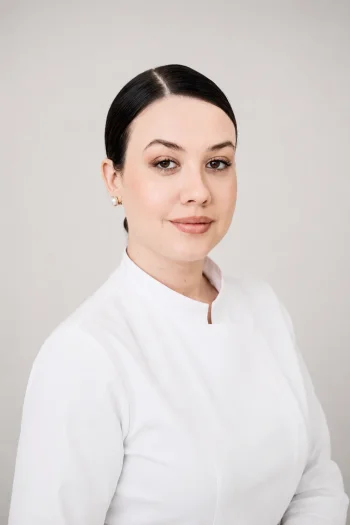
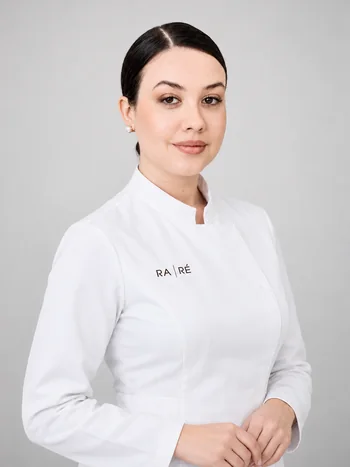
Replace Alisa's and Mariya's portraits with the client's new photos

diff --git a/index.html b/index.html
@@ -438,7 +438,7 @@
     <div class="mh-carousel">
       <div class="mh-carousel-track" id="mh-spec-track">
         <a href="specialists/mariya-viktorovna.html" class="mh-spec-card">
-          <img src="assets/photos/spec-mariya.webp?v=9" alt="Ермакова Мария Викторовна" loading="lazy" srcset="assets/photos/spec-mariya-350.webp?v=9 350w, assets/photos/spec-mariya-500.webp?v=9 500w, assets/photos/spec-mariya-700.webp?v=9 700w, assets/photos/spec-mariya.webp?v=9 1024w" sizes="(max-width: 767px) 350px, (max-width: 1024px) 460px, 468px"/>
+          <img src="assets/photos/spec-mariya.webp?v=10" alt="Ермакова Мария Викторовна" loading="lazy" srcset="assets/photos/spec-mariya-350.webp?v=10 350w, assets/photos/spec-mariya-500.webp?v=10 500w, assets/photos/spec-mariya-700.webp?v=10 700w, assets/photos/spec-mariya.webp?v=10 1024w" sizes="(max-width: 767px) 350px, (max-width: 1024px) 460px, 468px"/>
           <p class="mh-spec-card__name">Ермакова Мария Викторовна</p>
           <p class="mh-spec-card__role">Главный врач, врач-косметолог</p>
         </a>
@@ -463,7 +463,7 @@
           <p class="mh-spec-card__role">Косметолог-эстетист</p>
         </a>
         <a href="specialists/alisa-alekseevna.html" class="mh-spec-card">
-          <img src="assets/photos/spec-alisa.webp?v=9" alt="Рейбер-Австрийская Алиса Алексеевна" loading="lazy" srcset="assets/photos/spec-alisa-350.webp?v=9 350w, assets/photos/spec-alisa-500.webp?v=9 500w, assets/photos/spec-alisa-700.webp?v=9 700w, assets/photos/spec-alisa.webp?v=9 1024w" sizes="(max-width: 767px) 350px, (max-width: 1024px) 460px, 468px"/>
+          <img src="assets/photos/spec-alisa.webp?v=10" alt="Рейбер-Австрийская Алиса Алексеевна" loading="lazy" srcset="assets/photos/spec-alisa-350.webp?v=10 350w, assets/photos/spec-alisa-500.webp?v=10 500w, assets/photos/spec-alisa-700.webp?v=10 700w, assets/photos/spec-alisa.webp?v=10 1086w" sizes="(max-width: 767px) 350px, (max-width: 1024px) 460px, 468px"/>
           <p class="mh-spec-card__name">Рейбер-Австрийская Алиса Алексеевна</p>
           <p class="mh-spec-card__role">Врач-дерматовенеролог, косметолог, трихолог</p>
         </a>
@@ -1085,7 +1085,7 @@
   </div>
   <div class="spec-track" id="spec-track">
     <a href="specialists/mariya-viktorovna.html" class="spec-card">
-      <div class="spec-card__photo"><img src="assets/photos/spec-mariya.webp?v=9" alt="Ермакова Мария Викторовна" loading="lazy" srcset="assets/photos/spec-mariya-350.webp?v=9 350w, assets/photos/spec-mariya-500.webp?v=9 500w, assets/photos/spec-mariya-700.webp?v=9 700w, assets/photos/spec-mariya.webp?v=9 1024w" sizes="(max-width: 767px) 350px, (max-width: 1024px) 460px, 468px"/></div>
+      <div class="spec-card__photo"><img src="assets/photos/spec-mariya.webp?v=10" alt="Ермакова Мария Викторовна" loading="lazy" srcset="assets/photos/spec-mariya-350.webp?v=10 350w, assets/photos/spec-mariya-500.webp?v=10 500w, assets/photos/spec-mariya-700.webp?v=10 700w, assets/photos/spec-mariya.webp?v=10 1024w" sizes="(max-width: 767px) 350px, (max-width: 1024px) 460px, 468px"/></div>
       <p class="spec-card__name">Ермакова Мария Викторовна</p>
       <p class="spec-card__role">Главный врач,<br>врач-косметолог</p>
       <span class="spec-card__view" aria-label="Профиль"><svg viewBox="0 0 24 24" fill="none"><path d="M7 17L17 7M17 7H9M17 7V15" stroke="currentColor" stroke-width="1.8" stroke-linecap="round" stroke-linejoin="round"/></svg></span>
@@ -1115,7 +1115,7 @@
       <span class="spec-card__view" aria-label="Профиль"><svg viewBox="0 0 24 24" fill="none"><path d="M7 17L17 7M17 7H9M17 7V15" stroke="currentColor" stroke-width="1.8" stroke-linecap="round" stroke-linejoin="round"/></svg></span>
     </a>
     <a href="specialists/alisa-alekseevna.html" class="spec-card">
-      <div class="spec-card__photo"><img src="assets/photos/spec-alisa.webp?v=9" alt="Рейбер-Австрийская Алиса Алексеевна" loading="lazy" srcset="assets/photos/spec-alisa-350.webp?v=9 350w, assets/photos/spec-alisa-500.webp?v=9 500w, assets/photos/spec-alisa-700.webp?v=9 700w, assets/photos/spec-alisa.webp?v=9 1024w" sizes="(max-width: 767px) 350px, (max-width: 1024px) 460px, 468px"/></div>
+      <div class="spec-card__photo"><img src="assets/photos/spec-alisa.webp?v=10" alt="Рейбер-Австрийская Алиса Алексеевна" loading="lazy" srcset="assets/photos/spec-alisa-350.webp?v=10 350w, assets/photos/spec-alisa-500.webp?v=10 500w, assets/photos/spec-alisa-700.webp?v=10 700w, assets/photos/spec-alisa.webp?v=10 1086w" sizes="(max-width: 767px) 350px, (max-width: 1024px) 460px, 468px"/></div>
       <p class="spec-card__name">Рейбер-Австрийская Алиса Алексеевна</p>
       <p class="spec-card__role">Врач-дерматовенеролог,<br>косметолог, трихолог</p>
       <span class="spec-card__view" aria-label="Профиль"><svg viewBox="0 0 24 24" fill="none"><path d="M7 17L17 7M17 7H9M17 7V15" stroke="currentColor" stroke-width="1.8" stroke-linecap="round" stroke-linejoin="round"/></svg></span>

diff --git a/specialists/index.html b/specialists/index.html
@@ -280,7 +280,7 @@
   </div>
   <div class="spec-team__grid">
     <a href="mariya-viktorovna.html" class="spec-card" data-rr="up" style="--rr-del:0s">
-      <img src="../assets/photos/spec-mariya.webp?v=9" alt="Ермакова Мария Викторовна" loading="lazy" srcset="../assets/photos/spec-mariya-350.webp?v=9 350w, ../assets/photos/spec-mariya-500.webp?v=9 500w, ../assets/photos/spec-mariya-700.webp?v=9 700w, ../assets/photos/spec-mariya.webp?v=9 1024w" sizes="(max-width: 767px) 350px, (max-width: 1024px) 460px, 468px"/>
+      <img src="../assets/photos/spec-mariya.webp?v=10" alt="Ермакова Мария Викторовна" loading="lazy" srcset="../assets/photos/spec-mariya-350.webp?v=10 350w, ../assets/photos/spec-mariya-500.webp?v=10 500w, ../assets/photos/spec-mariya-700.webp?v=10 700w, ../assets/photos/spec-mariya.webp?v=10 1024w" sizes="(max-width: 767px) 350px, (max-width: 1024px) 460px, 468px"/>
       <p class="spec-card__name">Ермакова Мария Викторовна</p>
       <p class="spec-card__role">Главный врач, врач-косметолог</p>
     </a>
@@ -305,7 +305,7 @@
       <p class="spec-card__role">Косметолог-эстетист</p>
     </a>
     <a href="alisa-alekseevna.html" class="spec-card" data-rr="up" style="--rr-del:0.24s">
-      <img src="../assets/photos/spec-alisa.webp?v=9" alt="Рейбер-Австрийская Алиса Алексеевна" loading="lazy" srcset="../assets/photos/spec-alisa-350.webp?v=9 350w, ../assets/photos/spec-alisa-500.webp?v=9 500w, ../assets/photos/spec-alisa-700.webp?v=9 700w, ../assets/photos/spec-alisa.webp?v=9 1024w" sizes="(max-width: 767px) 350px, (max-width: 1024px) 460px, 468px"/>
+      <img src="../assets/photos/spec-alisa.webp?v=10" alt="Рейбер-Австрийская Алиса Алексеевна" loading="lazy" srcset="../assets/photos/spec-alisa-350.webp?v=10 350w, ../assets/photos/spec-alisa-500.webp?v=10 500w, ../assets/photos/spec-alisa-700.webp?v=10 700w, ../assets/photos/spec-alisa.webp?v=10 1086w" sizes="(max-width: 767px) 350px, (max-width: 1024px) 460px, 468px"/>
       <p class="spec-card__name">Рейбер-Австрийская Алиса Алексеевна</p>
       <p class="spec-card__role">Врач-дерматовенеролог, косметолог, трихолог</p>
     </a>
@@ -345,7 +345,7 @@
     </div>
   </div>
   <a href="mariya-viktorovna.html" class="mh-spec-card" data-rr="up" style="--rr-del:0s">
-    <img src="../assets/photos/spec-mariya.webp?v=9" alt="Ермакова Мария Викторовна" loading="lazy" srcset="../assets/photos/spec-mariya-350.webp?v=9 350w, ../assets/photos/spec-mariya-500.webp?v=9 500w, ../assets/photos/spec-mariya-700.webp?v=9 700w, ../assets/photos/spec-mariya.webp?v=9 1024w" sizes="(max-width: 767px) 350px, (max-width: 1024px) 460px, 468px"/>
+    <img src="../assets/photos/spec-mariya.webp?v=10" alt="Ермакова Мария Викторовна" loading="lazy" srcset="../assets/photos/spec-mariya-350.webp?v=10 350w, ../assets/photos/spec-mariya-500.webp?v=10 500w, ../assets/photos/spec-mariya-700.webp?v=10 700w, ../assets/photos/spec-mariya.webp?v=10 1024w" sizes="(max-width: 767px) 350px, (max-width: 1024px) 460px, 468px"/>
     <p class="mh-spec-card__name">Ермакова Мария Викторовна</p>
     <p class="mh-spec-card__role">Главный врач, врач-косметолог</p>
   </a>
@@ -370,7 +370,7 @@
     <p class="mh-spec-card__role">Косметолог-эстетист</p>
   </a>
   <a href="alisa-alekseevna.html" class="mh-spec-card" data-rr="up" style="--rr-del:0.24s">
-    <img src="../assets/photos/spec-alisa.webp?v=9" alt="Рейбер-Австрийская Алиса Алексеевна" loading="lazy" srcset="../assets/photos/spec-alisa-350.webp?v=9 350w, ../assets/photos/spec-alisa-500.webp?v=9 500w, ../assets/photos/spec-alisa-700.webp?v=9 700w, ../assets/photos/spec-alisa.webp?v=9 1024w" sizes="(max-width: 767px) 350px, (max-width: 1024px) 460px, 468px"/>
+    <img src="../assets/photos/spec-alisa.webp?v=10" alt="Рейбер-Австрийская Алиса Алексеевна" loading="lazy" srcset="../assets/photos/spec-alisa-350.webp?v=10 350w, ../assets/photos/spec-alisa-500.webp?v=10 500w, ../assets/photos/spec-alisa-700.webp?v=10 700w, ../assets/photos/spec-alisa.webp?v=10 1086w" sizes="(max-width: 767px) 350px, (max-width: 1024px) 460px, 468px"/>
     <p class="mh-spec-card__name">Рейбер-Австрийская Алиса Алексеевна</p>
     <p class="mh-spec-card__role">Врач-дерматовенеролог, косметолог, трихолог</p>
   </a>

diff --git a/specialists/natalya-vladimirovna.html b/specialists/natalya-vladimirovna.html
@@ -377,12 +377,12 @@
     <div class="spec-sec-head"><h2 data-rr="up">Другие специалисты</h2></div>
     <div class="spec-others__grid" id="spec-others-cards">
       <a href="mariya-viktorovna.html" class="spec-other-card" data-rr="up">
-        <img src="../assets/photos/spec-mariya.webp?v=9" alt="Ермакова Мария Викторовна" loading="lazy" srcset="../assets/photos/spec-mariya-350.webp?v=9 350w, ../assets/photos/spec-mariya-500.webp?v=9 500w, ../assets/photos/spec-mariya-700.webp?v=9 700w, ../assets/photos/spec-mariya.webp?v=9 1024w" sizes="(max-width: 767px) 350px, (max-width: 1024px) 460px, 468px"/>
+        <img src="../assets/photos/spec-mariya.webp?v=10" alt="Ермакова Мария Викторовна" loading="lazy" srcset="../assets/photos/spec-mariya-350.webp?v=10 350w, ../assets/photos/spec-mariya-500.webp?v=10 500w, ../assets/photos/spec-mariya-700.webp?v=10 700w, ../assets/photos/spec-mariya.webp?v=10 1024w" sizes="(max-width: 767px) 350px, (max-width: 1024px) 460px, 468px"/>
         <p class="spec-other-card__name">Ермакова Мария Викторовна</p>
         <p class="spec-other-card__role">Главный врач, врач-косметолог</p>
       </a>
       <a href="alisa-alekseevna.html" class="spec-other-card" data-rr="up" style="--rr-del:0.05s">
-        <img src="../assets/photos/spec-alisa.webp?v=9" alt="Рейбер-Австрийская Алиса Алексеевна" loading="lazy" srcset="../assets/photos/spec-alisa-350.webp?v=9 350w, ../assets/photos/spec-alisa-500.webp?v=9 500w, ../assets/photos/spec-alisa-700.webp?v=9 700w, ../assets/photos/spec-alisa.webp?v=9 1024w" sizes="(max-width: 767px) 350px, (max-width: 1024px) 460px, 468px"/>
+        <img src="../assets/photos/spec-alisa.webp?v=10" alt="Рейбер-Австрийская Алиса Алексеевна" loading="lazy" srcset="../assets/photos/spec-alisa-350.webp?v=10 350w, ../assets/photos/spec-alisa-500.webp?v=10 500w, ../assets/photos/spec-alisa-700.webp?v=10 700w, ../assets/photos/spec-alisa.webp?v=10 1086w" sizes="(max-width: 767px) 350px, (max-width: 1024px) 460px, 468px"/>
         <p class="spec-other-card__name">Рейбер-Австрийская Алиса Алексеевна</p>
         <p class="spec-other-card__role">Врач-дерматовенеролог, косметолог, трихолог</p>
       </a>

diff --git a/specialists/elena-tigranovna.html b/specialists/elena-tigranovna.html
@@ -431,12 +431,12 @@
         <p class="spec-other-card__role">Косметолог-эстетист</p>
       </a>
       <a href="mariya-viktorovna.html" class="spec-other-card" data-rr="up" style="--rr-del:0.05s">
-        <img src="../assets/photos/spec-mariya.webp?v=9" alt="Ермакова Мария Викторовна" loading="lazy" srcset="../assets/photos/spec-mariya-350.webp?v=9 350w, ../assets/photos/spec-mariya-500.webp?v=9 500w, ../assets/photos/spec-mariya-700.webp?v=9 700w, ../assets/photos/spec-mariya.webp?v=9 1024w" sizes="(max-width: 767px) 350px, (max-width: 1024px) 460px, 468px"/>
+        <img src="../assets/photos/spec-mariya.webp?v=10" alt="Ермакова Мария Викторовна" loading="lazy" srcset="../assets/photos/spec-mariya-350.webp?v=10 350w, ../assets/photos/spec-mariya-500.webp?v=10 500w, ../assets/photos/spec-mariya-700.webp?v=10 700w, ../assets/photos/spec-mariya.webp?v=10 1024w" sizes="(max-width: 767px) 350px, (max-width: 1024px) 460px, 468px"/>
         <p class="spec-other-card__name">Ермакова Мария Викторовна</p>
         <p class="spec-other-card__role">Главный врач, врач-косметолог</p>
       </a>
       <a href="alisa-alekseevna.html" class="spec-other-card" data-rr="up" style="--rr-del:0.10s">
-        <img src="../assets/photos/spec-alisa.webp?v=9" alt="Рейбер-Австрийская Алиса Алексеевна" loading="lazy" srcset="../assets/photos/spec-alisa-350.webp?v=9 350w, ../assets/photos/spec-alisa-500.webp?v=9 500w, ../assets/photos/spec-alisa-700.webp?v=9 700w, ../assets/photos/spec-alisa.webp?v=9 1024w" sizes="(max-width: 767px) 350px, (max-width: 1024px) 460px, 468px"/>
+        <img src="../assets/photos/spec-alisa.webp?v=10" alt="Рейбер-Австрийская Алиса Алексеевна" loading="lazy" srcset="../assets/photos/spec-alisa-350.webp?v=10 350w, ../assets/photos/spec-alisa-500.webp?v=10 500w, ../assets/photos/spec-alisa-700.webp?v=10 700w, ../assets/photos/spec-alisa.webp?v=10 1086w" sizes="(max-width: 767px) 350px, (max-width: 1024px) 460px, 468px"/>
         <p class="spec-other-card__name">Рейбер-Австрийская Алиса Алексеевна</p>
         <p class="spec-other-card__role">Врач-дерматовенеролог, косметолог, трихолог</p>
       </a>

diff --git a/specialists/yana-vladimirovna.html b/specialists/yana-vladimirovna.html
@@ -437,12 +437,12 @@
         <p class="spec-other-card__role">Косметолог-эстетист</p>
       </a>
       <a href="mariya-viktorovna.html" class="spec-other-card" data-rr="up" style="--rr-del:0.10s">
-        <img src="../assets/photos/spec-mariya.webp?v=9" alt="Ермакова Мария Викторовна" loading="lazy" srcset="../assets/photos/spec-mariya-350.webp?v=9 350w, ../assets/photos/spec-mariya-500.webp?v=9 500w, ../assets/photos/spec-mariya-700.webp?v=9 700w, ../assets/photos/spec-mariya.webp?v=9 1024w" sizes="(max-width: 767px) 350px, (max-width: 1024px) 460px, 468px"/>
+        <img src="../assets/photos/spec-mariya.webp?v=10" alt="Ермакова Мария Викторовна" loading="lazy" srcset="../assets/photos/spec-mariya-350.webp?v=10 350w, ../assets/photos/spec-mariya-500.webp?v=10 500w, ../assets/photos/spec-mariya-700.webp?v=10 700w, ../assets/photos/spec-mariya.webp?v=10 1024w" sizes="(max-width: 767px) 350px, (max-width: 1024px) 460px, 468px"/>
         <p class="spec-other-card__name">Ермакова Мария Викторовна</p>
         <p class="spec-other-card__role">Главный врач, врач-косметолог</p>
       </a>
       <a href="alisa-alekseevna.html" class="spec-other-card" data-rr="up" style="--rr-del:0.15s">
-        <img src="../assets/photos/spec-alisa.webp?v=9" alt="Рейбер-Австрийская Алиса Алексеевна" loading="lazy" srcset="../assets/photos/spec-alisa-350.webp?v=9 350w, ../assets/photos/spec-alisa-500.webp?v=9 500w, ../assets/photos/spec-alisa-700.webp?v=9 700w, ../assets/photos/spec-alisa.webp?v=9 1024w" sizes="(max-width: 767px) 350px, (max-width: 1024px) 460px, 468px"/>
+        <img src="../assets/photos/spec-alisa.webp?v=10" alt="Рейбер-Австрийская Алиса Алексеевна" loading="lazy" srcset="../assets/photos/spec-alisa-350.webp?v=10 350w, ../assets/photos/spec-alisa-500.webp?v=10 500w, ../assets/photos/spec-alisa-700.webp?v=10 700w, ../assets/photos/spec-alisa.webp?v=10 1086w" sizes="(max-width: 767px) 350px, (max-width: 1024px) 460px, 468px"/>
         <p class="spec-other-card__name">Рейбер-Австрийская Алиса Алексеевна</p>
         <p class="spec-other-card__role">Врач-дерматовенеролог, косметолог, трихолог</p>
       </a>

diff --git a/specialists/mariya-viktorovna.html b/specialists/mariya-viktorovna.html
@@ -212,7 +212,7 @@
       </a>
     </div>
     <div class="spec-hero__photo" data-rr="img">
-      <img src="../assets/photos/spec-mariya.webp?v=9" alt="Ермакова Мария Викторовна" loading="eager" srcset="../assets/photos/spec-mariya-350.webp?v=9 350w, ../assets/photos/spec-mariya-500.webp?v=9 500w, ../assets/photos/spec-mariya-700.webp?v=9 700w, ../assets/photos/spec-mariya.webp?v=9 1024w" sizes="(max-width: 767px) 350px, (max-width: 1024px) 460px, 468px"/>
+      <img src="../assets/photos/spec-mariya.webp?v=10" alt="Ермакова Мария Викторовна" loading="eager" srcset="../assets/photos/spec-mariya-350.webp?v=10 350w, ../assets/photos/spec-mariya-500.webp?v=10 500w, ../assets/photos/spec-mariya-700.webp?v=10 700w, ../assets/photos/spec-mariya.webp?v=10 1024w" sizes="(max-width: 767px) 350px, (max-width: 1024px) 460px, 468px"/>
     </div>
   </section>
 
@@ -428,7 +428,7 @@
     <div class="spec-sec-head"><h2 data-rr="up">Другие специалисты</h2></div>
     <div class="spec-others__grid" id="spec-others-cards">
       <a href="alisa-alekseevna.html" class="spec-other-card" data-rr="up">
-        <img src="../assets/photos/spec-alisa.webp?v=9" alt="Рейбер-Австрийская Алиса Алексеевна" loading="lazy" srcset="../assets/photos/spec-alisa-350.webp?v=9 350w, ../assets/photos/spec-alisa-500.webp?v=9 500w, ../assets/photos/spec-alisa-700.webp?v=9 700w, ../assets/photos/spec-alisa.webp?v=9 1024w" sizes="(max-width: 767px) 350px, (max-width: 1024px) 460px, 468px"/>
+        <img src="../assets/photos/spec-alisa.webp?v=10" alt="Рейбер-Австрийская Алиса Алексеевна" loading="lazy" srcset="../assets/photos/spec-alisa-350.webp?v=10 350w, ../assets/photos/spec-alisa-500.webp?v=10 500w, ../assets/photos/spec-alisa-700.webp?v=10 700w, ../assets/photos/spec-alisa.webp?v=10 1086w" sizes="(max-width: 767px) 350px, (max-width: 1024px) 460px, 468px"/>
         <p class="spec-other-card__name">Рейбер-Австрийская Алиса Алексеевна</p>
         <p class="spec-other-card__role">Врач-дерматовенеролог, косметолог, трихолог</p>
       </a>

diff --git a/specialists/ekaterina-evgenevna.html b/specialists/ekaterina-evgenevna.html
@@ -398,7 +398,7 @@
         <p class="spec-other-card__role">Косметолог-эстетист</p>
       </a>
       <a href="mariya-viktorovna.html" class="spec-other-card" data-rr="up" style="--rr-del:0.15s">
-        <img src="../assets/photos/spec-mariya.webp?v=9" alt="Ермакова Мария Викторовна" loading="lazy" srcset="../assets/photos/spec-mariya-350.webp?v=9 350w, ../assets/photos/spec-mariya-500.webp?v=9 500w, ../assets/photos/spec-mariya-700.webp?v=9 700w, ../assets/photos/spec-mariya.webp?v=9 1024w" sizes="(max-width: 767px) 350px, (max-width: 1024px) 460px, 468px"/>
+        <img src="../assets/photos/spec-mariya.webp?v=10" alt="Ермакова Мария Викторовна" loading="lazy" srcset="../assets/photos/spec-mariya-350.webp?v=10 350w, ../assets/photos/spec-mariya-500.webp?v=10 500w, ../assets/photos/spec-mariya-700.webp?v=10 700w, ../assets/photos/spec-mariya.webp?v=10 1024w" sizes="(max-width: 767px) 350px, (max-width: 1024px) 460px, 468px"/>
         <p class="spec-other-card__name">Ермакова Мария Викторовна</p>
         <p class="spec-other-card__role">Главный врач, врач-косметолог</p>
       </a>

diff --git a/specialists/alisa-alekseevna.html b/specialists/alisa-alekseevna.html
@@ -211,7 +211,7 @@
       </a>
     </div>
     <div class="spec-hero__photo" data-rr="img">
-      <img src="../assets/photos/spec-alisa.webp?v=9" alt="Рейбер-Австрийская Алиса Алексеевна" loading="eager" srcset="../assets/photos/spec-alisa-350.webp?v=9 350w, ../assets/photos/spec-alisa-500.webp?v=9 500w, ../assets/photos/spec-alisa-700.webp?v=9 700w, ../assets/photos/spec-alisa.webp?v=9 1024w" sizes="(max-width: 767px) 350px, (max-width: 1024px) 460px, 468px"/>
+      <img src="../assets/photos/spec-alisa.webp?v=10" alt="Рейбер-Австрийская Алиса Алексеевна" loading="eager" srcset="../assets/photos/spec-alisa-350.webp?v=10 350w, ../assets/photos/spec-alisa-500.webp?v=10 500w, ../assets/photos/spec-alisa-700.webp?v=10 700w, ../assets/photos/spec-alisa.webp?v=10 1086w" sizes="(max-width: 767px) 350px, (max-width: 1024px) 460px, 468px"/>
     </div>
   </section>
 
